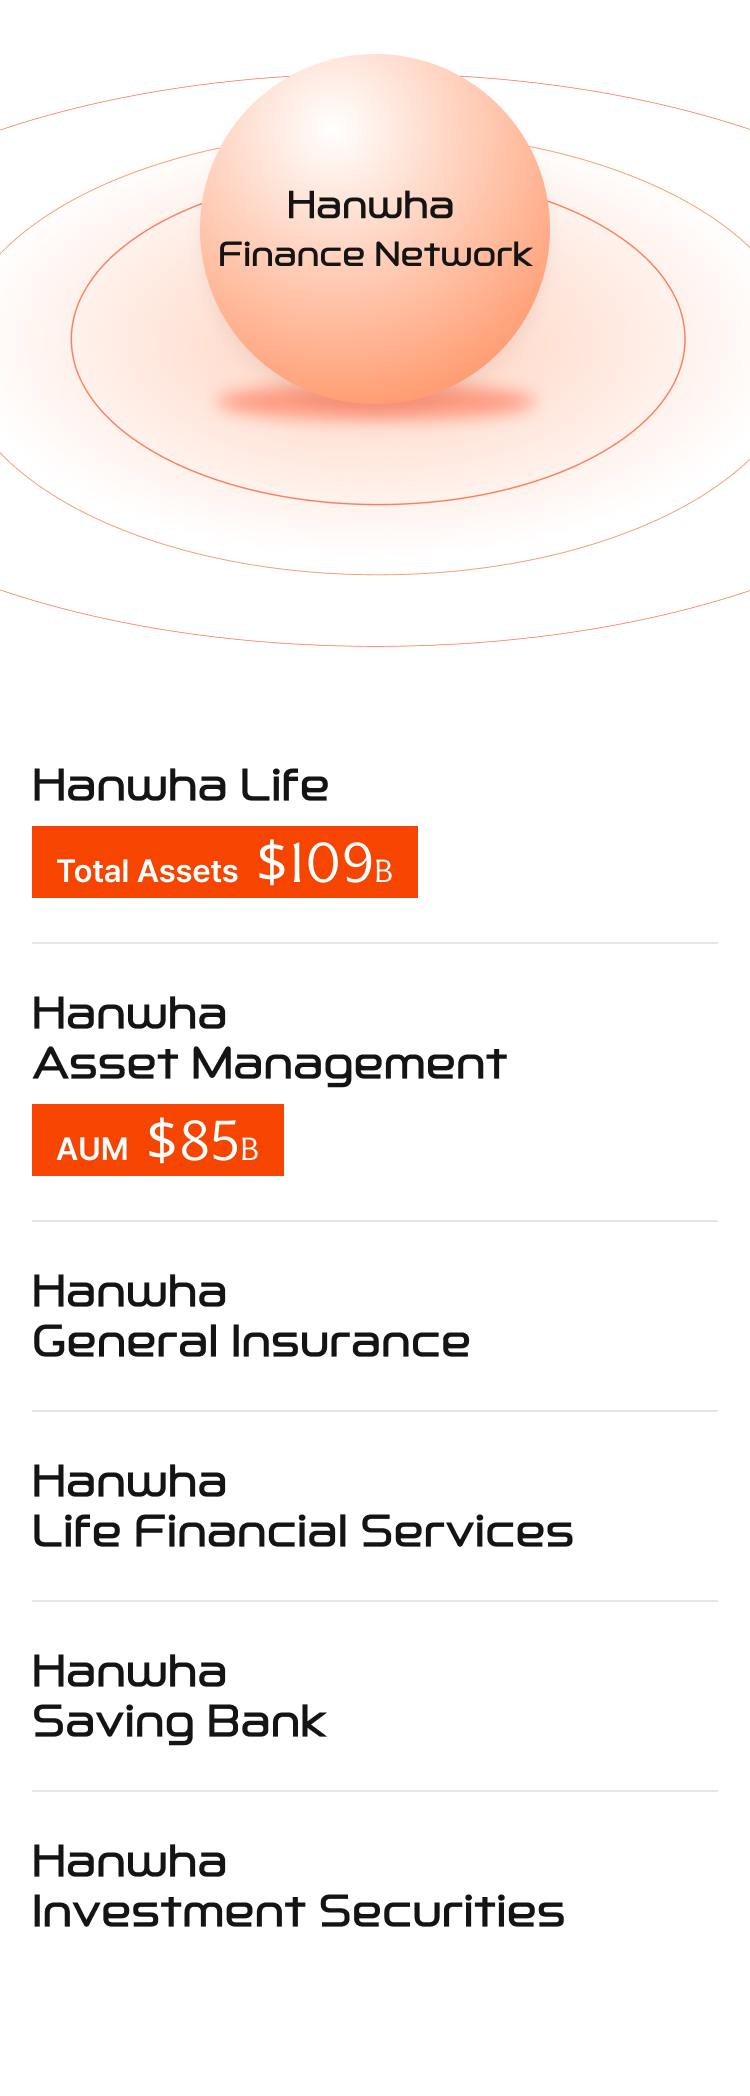
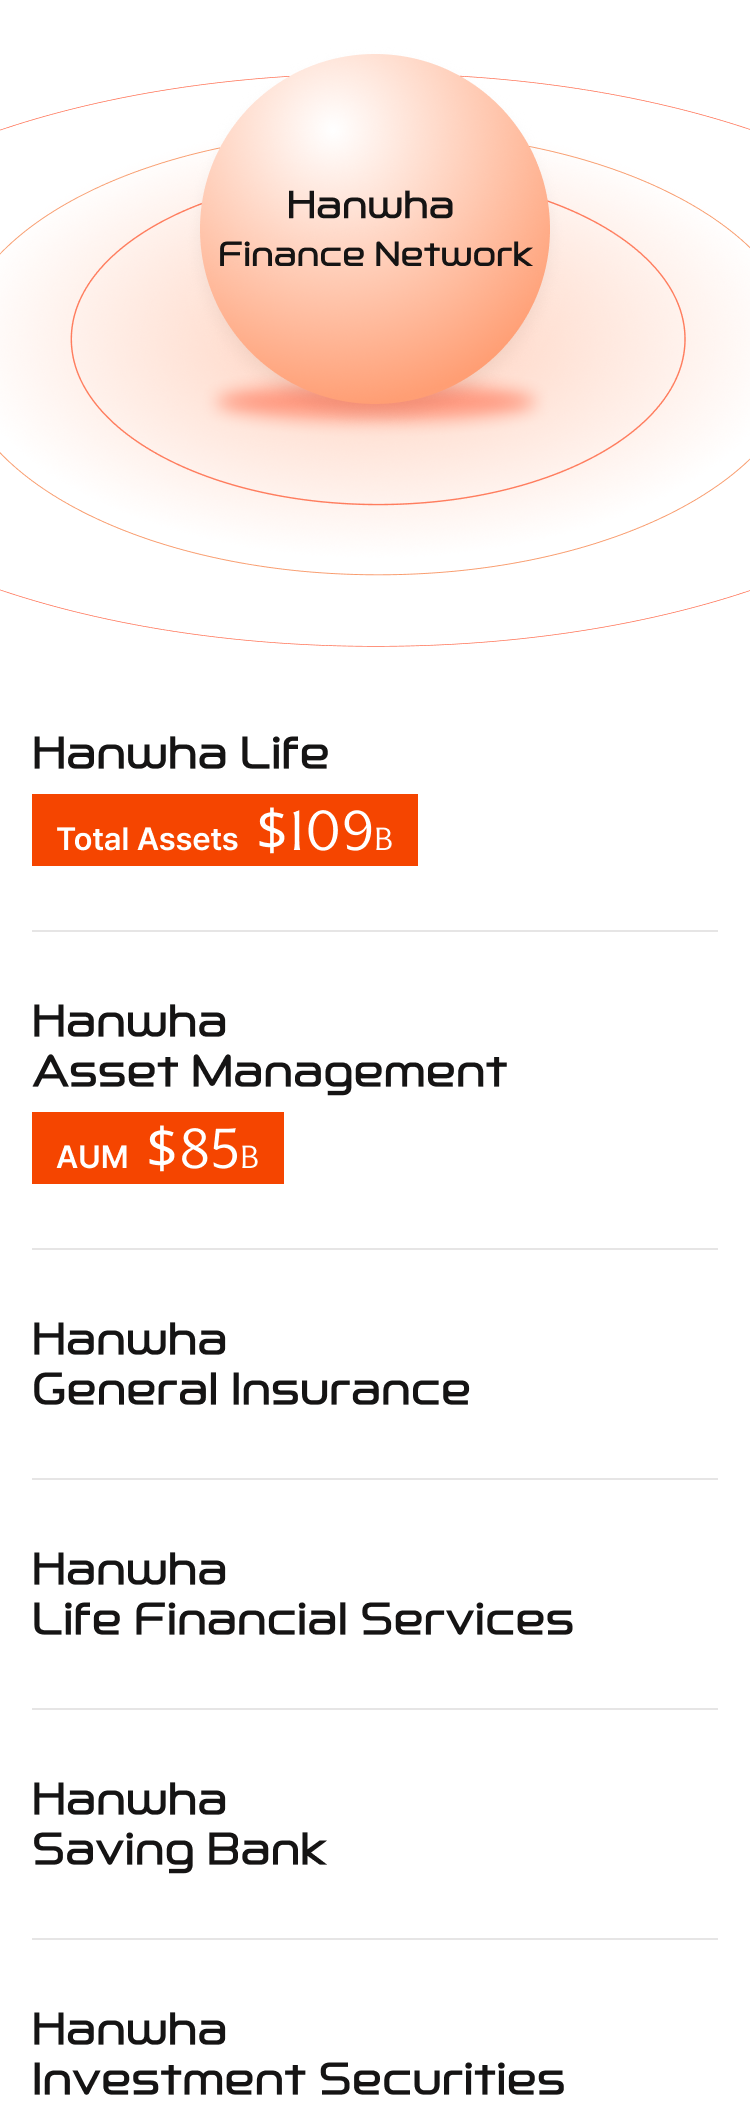
수정 반영

diff --git a/src/pages/en/EN_RM_01.html b/src/pages/en/EN_RM_01.html
@@ -24,7 +24,8 @@
 							<section class="cont-group monitoring">
 								<div class="overlay-box-wrap reverse">
 									<div class="visual-box">
-										<img src="~@/assets/images/company/system-monitoring-01.jpg" alt="">
+										<img src="~@/assets/images/company/system-monitoring-01.jpg" alt="" class="pc-tablet-only">
+										<img src="~@/assets/images/company/mo-system-monitoring-01.jpg" alt="" class="mobile-only">
 									</div>
 									<div class="info-box">
 										<p class="tit"><span class="f-hanwha">Hanwha Asset Management</span> <span class="fc-primary">responds to market volatility</span> through a systematic and robust risk management framework.</p>
@@ -34,8 +35,8 @@
 									<h3 class="tit-sm">Investment Monitoring Framework Process</h3>
 									<div class="gray-box">
 										<div class="img-wrap">
-											<img src="~@/assets/images/company/system-monitoring-02.png" alt="" class="pc-only">	
-											<img src="~@/assets/images/company/mo-system-monitoring-02.png" alt="" class="tablet-only">	
+											<img src="~@/assets/images/company/system-monitoring-02-en.png" alt="" class="pc-tablet-only">	
+											<img src="~@/assets/images/company/mo-system-monitoring-02-en.png" alt="" class="mobile-only">	
 										</div>
 									</div>
 									<ul class="grid-list-wrap">
@@ -91,7 +92,8 @@
 							<section class="cont-group risk">
 								<div class="overlay-box-wrap reverse">
 									<div class="visual-box">
-										<img src="~@/assets/images/company/system-risk-01.jpg" alt="">
+										<img src="~@/assets/images/company/system-risk-01.jpg" alt="" class="pc-tablet-only">
+										<img src="~@/assets/images/company/mo-system-risk-01.jpg" alt="" class="mobile-only">
 									</div>
 									<div class="info-box">
 										<p class="tit">Through <span class="fc-primary">dual monitoring</span>, we rigorously manage risks across the entire investment process.</p>
@@ -101,8 +103,8 @@
 									<h3 class="tit-sm">Risk Management Process</h3>
 									<div class="gray-box">
 										<div class="img-wrap">
-											<img src="~@/assets/images/company/system-risk-02.png" alt="" class="pc-only">	
-											<img src="~@/assets/images/company/mo-system-risk-02.png" alt="" class="tablet-only">	
+											<img src="~@/assets/images/company/system-risk-02-en.png" alt="" class="pc-tablet-only">	
+											<img src="~@/assets/images/company/mo-system-risk-02-en.png" alt="" class="mobile-only">	
 										</div>
 									</div>
 									<ul class="grid-list-wrap">
@@ -166,7 +168,8 @@
 							<section class="cont-group inspect">
 								<div class="overlay-box-wrap reverse">
 									<div class="visual-box">
-										<img src="~@/assets/images/company/system-inspect-01.jpg" alt="">
+										<img src="~@/assets/images/company/system-inspect-01.jpg" alt="" class="pc-tablet-only">
+										<img src="~@/assets/images/company/mo-system-inspect-01.jpg" alt="" class="mobile-only">
 									</div>
 									<div class="info-box">
 										<p class="tit">We prevent risks in advance and <span class="fc-primary">ensure transparent investment management</span> through internal controls and compliance oversight.</p>
@@ -176,8 +179,8 @@
 									<h3 class="tit-sm">Internal Control Review Process</h3>
 									<div class="gray-box">
 										<div class="img-wrap">
-											<img src="~@/assets/images/company/system-inspect-02.png" alt="" class="pc-only">	
-											<img src="~@/assets/images/company/mo-system-inspect-02.png" alt="" class="tablet-only">	
+											<img src="~@/assets/images/company/system-inspect-02-en.png" alt="" class="pc-tablet-only">	
+											<img src="~@/assets/images/company/mo-system-inspect-02-en.png" alt="" class="mobile-only">	
 										</div>
 									</div>
 									<ul class="grid-list-wrap">

diff --git a/src/pages/ko/CP_06_01T.html b/src/pages/ko/CP_06_01T.html
@@ -49,7 +49,8 @@
 								<ul class="talent-list-wrap">
 									<li class="overlay-box-wrap">
 										<div class="visual-box">
-											<img src="~@/assets/images/company/talent-01.jpg" alt="">
+											<img src="~@/assets/images/company/talent-01.jpg" alt="" class="pc-tablet-only">
+											<img src="~@/assets/images/company/mo-talent-01.jpg" alt="" class="mobile-only">
 										</div>
 										<div class="info-box">
 											<div class="tit-wrap">
@@ -66,7 +67,8 @@
 									</li>
 									<li class="overlay-box-wrap">
 										<div class="visual-box">
-											<img src="~@/assets/images/company/talent-02.jpg" alt="">
+											<img src="~@/assets/images/company/talent-02.jpg" alt="" class="pc-tablet-only">
+											<img src="~@/assets/images/company/mo-talent-02.jpg" alt="" class="mobile-only">
 										</div>
 										<div class="info-box">
 											<div class="tit-wrap">
@@ -83,7 +85,8 @@
 									</li>
 									<li class="overlay-box-wrap">
 										<div class="visual-box">
-											<img src="~@/assets/images/company/talent-03.jpg" alt="">
+											<img src="~@/assets/images/company/talent-03.jpg" alt="" class="pc-tablet-only">
+											<img src="~@/assets/images/company/mo-talent-03.jpg" alt="" class="mobile-only">
 										</div>
 										<div class="info-box">
 											<div class="tit-wrap">

diff --git a/src/assets/scss/page/_company.scss b/src/assets/scss/page/_company.scss
@@ -1538,6 +1538,9 @@
 						gap: 4rem;
 
 						.overlay-box-wrap{
+							.visual-box{
+								height: calc(26.3rem + 4rem);
+							}
 							.info-box{
 								padding: 4rem var(--#{$prefix}-content-padding-x);
 
@@ -1826,10 +1829,13 @@
 					margin-bottom: 1.6rem;
 					font-weight: 700;
 				}
+				.desc{
+					margin-bottom: 0.8rem;
+				}
 				.desc-small{
 					margin-top: 0.8rem;
 					color: var(--#{$prefix}-color-text-subtle);
-					font-weight: 1.6rem;
+					font-size: 1.6rem;
 				}
 				.emphasis{
 					display: flex;
@@ -1845,6 +1851,28 @@
 						font-family: $f-pretend;
 						font-size: 4rem;
 						font-weight: 600;
+					}
+				}
+				.gray-box{
+					padding: 3.2rem 2rem 0;
+				}
+				.white-box{
+					margin-top: auto;
+				}
+			}
+
+			@include mq(mobile){
+				padding: 4rem 0;
+				.gray-box-wrap{
+					.emphasis{
+						font-size: 6rem;
+
+						small{
+							font-size: 2.8rem;
+						}
+					}
+					.gray-box{
+						padding: 2.4rem 1.2rem 0;
 					}
 				}
 			}
@@ -1887,7 +1915,7 @@
 					li{
 						justify-content: flex-start;
 						flex: 1;
-						min-width: 32%;
+						// min-width: 32%;
 						text-align: left;
 						
 						br{

diff --git a/src/pages/en/EN_CP_03.html b/src/pages/en/EN_CP_03.html
@@ -22,7 +22,7 @@
 					<section class="section-intro">
 						<div class="inner">
 							<div class="group-wrap spacing-lg">
-								<h3 class="tit-md">A digital financial value chain leading the evolution of finance</h3>
+								<h3 class="tit-sm">A digital financial value chain leading the evolution of finance</h3>
 								<p>
 									Hanwha is expanding beyond traditional financial services into new areas such as global alternative investments and emerging business opportunities, pioneering new horizons in finance. <br/>
 									We will continue to enhance asset management through advanced digital finance and provide a unique financial experience.

diff --git a/src/assets/scss/style.scss b/src/assets/scss/style.scss
@@ -371,6 +371,9 @@ sup{
         font-size: 4rem;
       }
     }
+		.sub-desc{
+			margin-top: 2.4rem;
+		}
     .desc {
       margin-top: 0.8rem;
       font-size: 1.8rem;
@@ -481,7 +484,7 @@ sup{
 				display: none;
 			}
 		}
-		
+
 		+ .group-wrap {
 			padding-top: 4rem;
 		}
@@ -495,7 +498,7 @@ sup{
 			}
 		}
 
-		[class*="tit-"] {
+		[class*="tit-"]:not(.tit-wrap) {
 			display: flex;
 			align-items: baseline;
 			flex-wrap: wrap;
